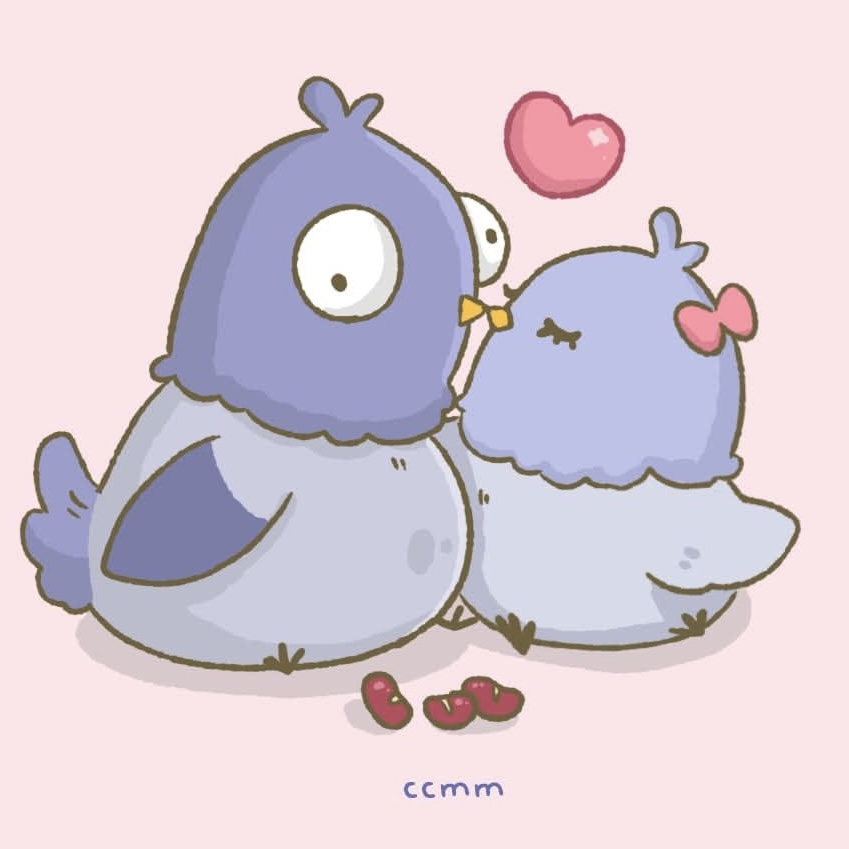
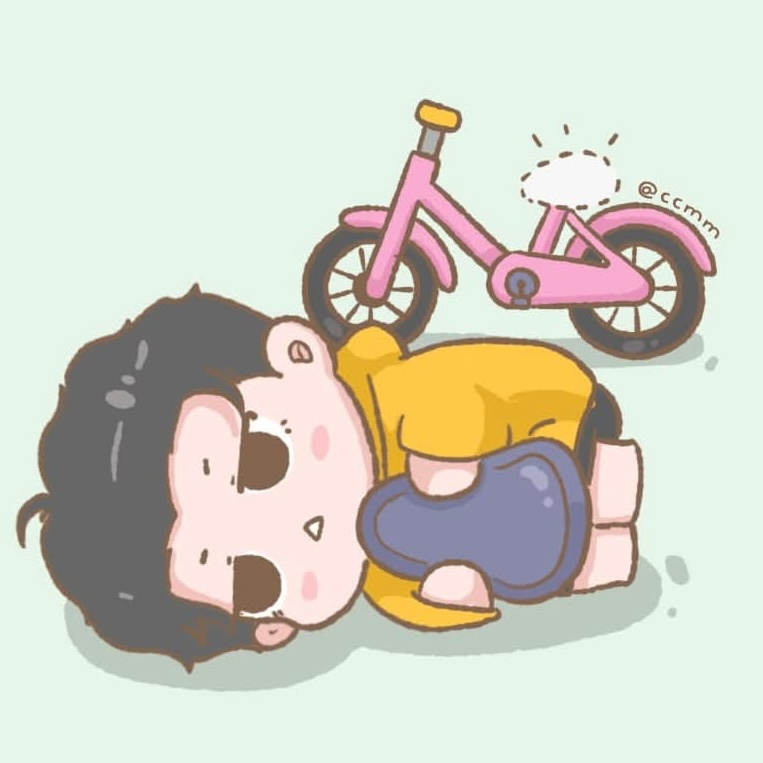
add ver 6 + update avt

diff --git a/lib/screens/home_screen.dart b/lib/screens/home_screen.dart
@@ -20,6 +20,8 @@ class HomeScreen extends StatelessWidget {
                 : viewport.maxWidth < 600
                 ? 42.0
                 : 48.0;
+            final imageSize = compact ? 76.0 : 100.0;
+
             return SingleChildScrollView(
               child: ConstrainedBox(
                 constraints: BoxConstraints(minHeight: viewport.maxHeight),
@@ -36,12 +38,12 @@ class HomeScreen extends StatelessWidget {
                         mainAxisSize: MainAxisSize.min,
                         crossAxisAlignment: CrossAxisAlignment.stretch,
                         children: [
-                          Text(
-                            '\u{1F951}',
-                            textAlign: TextAlign.center,
-                            style: TextStyle(
-                              fontSize: compact ? 68 : 90,
-                              height: 1.2,
+                          Center(
+                            child: Image.asset(
+                              'assets/avt.png',
+                              width: imageSize,
+                              height: imageSize,
+                              fit: BoxFit.contain,
                             ),
                           ),
                           SizedBox(height: compact ? 12 : 20),
